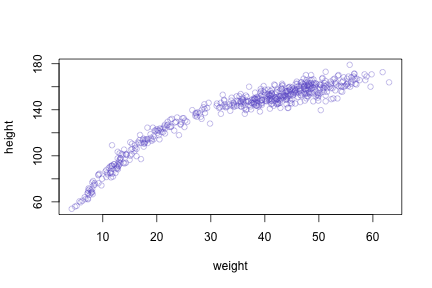
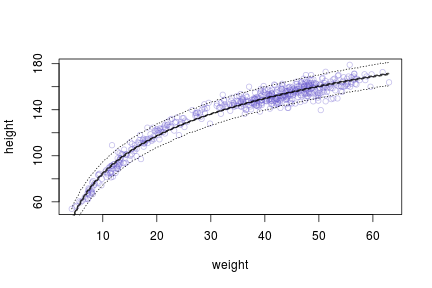
hw3 draft. TODO more elegant CI/plotting (ggplot?), standardize number of samples/replicates in HPDI calcs

diff --git a/hw3ashander.tex b/hw3ashander.tex
@@ -1,4 +1,4 @@
-%% LyX 2.1.0svn created this file.  For more info, see http://www.lyx.org/.
+%% lyx 2.1.0svn created this file.  For more info, see http://www.lyx.org/.
 %% Do not edit unless you really know what you are doing.
 \documentclass{article}
 \usepackage{graphicx, color}
@@ -454,32 +454,13 @@ Note that $h_i$ is column `height` and $w_i$ is column `weight` in the data fram
 \ttfamily\noindent
 \hlsymbol{mle.hw}{\ }\hlassignement{\usebox{\hlnormalsizeboxlessthan}-}{\ }\hlfunctioncall{mle2}\hlkeyword{(}\hlsymbol{height}{\ }\hlkeyword{\urltilda{}}{\ }\hlfunctioncall{dnorm}\hlkeyword{(}\hlargument{mean}{\ }\hlargument{=}{\ }\hlsymbol{alpha}{\ }\hlkeyword{+}{\ }\hlsymbol{beta}{\ }\hlkeyword{*}{\ }\hlsymbol{weight}\hlkeyword{,}\hspace*{\fill}\\
 \hlstd{}{\ }{\ }{\ }{\ }\hlargument{sd}{\ }\hlargument{=}{\ }\hlsymbol{sigma}\hlkeyword{)}\hlkeyword{,}{\ }\hlargument{data}{\ }\hlargument{=}{\ }\hlsymbol{d2}\hlkeyword{,}{\ }\hlargument{start}{\ }\hlargument{=}{\ }\hlfunctioncall{list}\hlkeyword{(}\hlargument{alpha}{\ }\hlargument{=}{\ }\hlfunctioncall{mean}\hlkeyword{(}\hlsymbol{d2}\hlkeyword{\usebox{\hlnormalsizeboxdollar}}\hlsymbol{height}\hlkeyword{)}\hlkeyword{,}{\ }\hlargument{beta}{\ }\hlargument{=}{\ }\hlnumber{0}\hlkeyword{,}\hspace*{\fill}\\
-\hlstd{}{\ }{\ }{\ }{\ }\hlargument{sigma}{\ }\hlargument{=}{\ }\hlfunctioncall{sd}\hlkeyword{(}\hlsymbol{d2}\hlkeyword{\usebox{\hlnormalsizeboxdollar}}\hlsymbol{height}\hlkeyword{)}\hlkeyword{)}\hlkeyword{)}\mbox{}
-\normalfont
-\end{flushleft}
-\begin{verbatim}
-## Warning message: NaNs produced
-\end{verbatim}
-\begin{verbatim}
-## Warning message: NaNs produced
-\end{verbatim}
-\begin{verbatim}
-## Warning message: NaNs produced
-\end{verbatim}
-\begin{verbatim}
-## Warning message: NaNs produced
-\end{verbatim}
-\begin{verbatim}
-## Warning message: NaNs produced
-\end{verbatim}
-\begin{flushleft}
-\ttfamily\noindent
-\hlsymbol{known.weights}{\ }\hlassignement{\usebox{\hlnormalsizeboxlessthan}-}{\ }\hlfunctioncall{c}\hlkeyword{(}\hlnumber{46.95}\hlkeyword{,}{\ }\hlnumber{43.72}\hlkeyword{,}{\ }\hlnumber{64.78}\hlkeyword{,}{\ }\hlnumber{32.59}\hlkeyword{,}{\ }\hlnumber{54.63}\hlkeyword{)}\hspace*{\fill}\\
+\hlstd{}{\ }{\ }{\ }{\ }\hlargument{sigma}{\ }\hlargument{=}{\ }\hlfunctioncall{sd}\hlkeyword{(}\hlsymbol{d2}\hlkeyword{\usebox{\hlnormalsizeboxdollar}}\hlsymbol{height}\hlkeyword{)}\hlkeyword{)}\hlkeyword{)}\hspace*{\fill}\\
+\hlstd{}\hlsymbol{known.weights}{\ }\hlassignement{\usebox{\hlnormalsizeboxlessthan}-}{\ }\hlfunctioncall{c}\hlkeyword{(}\hlnumber{46.95}\hlkeyword{,}{\ }\hlnumber{43.72}\hlkeyword{,}{\ }\hlnumber{64.78}\hlkeyword{,}{\ }\hlnumber{32.59}\hlkeyword{,}{\ }\hlnumber{54.63}\hlkeyword{)}\hspace*{\fill}\\
 \hlstd{}\hlsymbol{post.samples}{\ }\hlassignement{\usebox{\hlnormalsizeboxlessthan}-}{\ }\hlfunctioncall{as.data.frame}\hlkeyword{(}\hlfunctioncall{mvrnorm}\hlkeyword{(}\hlfunctioncall{length}\hlkeyword{(}\hlsymbol{d2}\hlkeyword{\usebox{\hlnormalsizeboxdollar}}\hlsymbol{height}\hlkeyword{)}\hlkeyword{,}\hspace*{\fill}\\
 \hlstd{}{\ }{\ }{\ }{\ }\hlargument{mu}{\ }\hlargument{=}{\ }\hlfunctioncall{coef}\hlkeyword{(}\hlsymbol{mle.hw}\hlkeyword{)}\hlkeyword{,}{\ }\hlargument{Sigma}{\ }\hlargument{=}{\ }\hlfunctioncall{vcov}\hlkeyword{(}\hlsymbol{mle.hw}\hlkeyword{)}\hlkeyword{)}\hlkeyword{)}\hspace*{\fill}\\
 \hlstd{}\hlsymbol{Pred.mean}{\ }\hlassignement{\usebox{\hlnormalsizeboxlessthan}-}{\ }\hlkeyword{function}\hlkeyword{(}\hlformalargs{x}\hlkeyword{)}{\ }\hlkeyword{\usebox{\hlnormalsizeboxopenbrace}}\hspace*{\fill}\\
-\hlstd{}{\ }{\ }{\ }{\ }\hlsymbol{ret}{\ }\hlassignement{\usebox{\hlnormalsizeboxlessthan}-}{\ }\hlfunctioncall{coef}\hlkeyword{(}\hlsymbol{mle.hw}\hlkeyword{)}\hlkeyword{[}\hlstring{"alpha"}\hlkeyword{]}{\ }\hlkeyword{+}{\ }\hlfunctioncall{coef}\hlkeyword{(}\hlsymbol{mle.hw}\hlkeyword{)}\hlkeyword{[}\hlstring{"beta"}\hlkeyword{]}{\ }\hlkeyword{*}{\ }\hlsymbol{x}\hspace*{\fill}\\
-\hlstd{}{\ }{\ }{\ }{\ }\hlfunctioncall{names}\hlkeyword{(}\hlsymbol{ret}\hlkeyword{)}{\ }\hlassignement{\usebox{\hlnormalsizeboxlessthan}-}{\ }\hlfunctioncall{c}\hlkeyword{(}\hlstring{""}\hlkeyword{)}\hspace*{\fill}\\
+\hlstd{}{\ }{\ }{\ }{\ }\hlsymbol{ret}{\ }\hlassignement{\usebox{\hlnormalsizeboxlessthan}-}{\ }\hlfunctioncall{coef}\hlkeyword{(}\hlsymbol{mle.hw}\hlkeyword{)}\hlkeyword{[}\hlstring{"{}alpha"{}}\hlkeyword{]}{\ }\hlkeyword{+}{\ }\hlfunctioncall{coef}\hlkeyword{(}\hlsymbol{mle.hw}\hlkeyword{)}\hlkeyword{[}\hlstring{"{}beta"{}}\hlkeyword{]}{\ }\hlkeyword{*}{\ }\hlsymbol{x}\hspace*{\fill}\\
+\hlstd{}{\ }{\ }{\ }{\ }\hlfunctioncall{names}\hlkeyword{(}\hlsymbol{ret}\hlkeyword{)}{\ }\hlassignement{\usebox{\hlnormalsizeboxlessthan}-}{\ }\hlfunctioncall{c}\hlkeyword{(}\hlstring{"{}"{}}\hlkeyword{)}\hspace*{\fill}\\
 \hlstd{}{\ }{\ }{\ }{\ }\hlsymbol{ret}\hspace*{\fill}\\
 \hlstd{}\hlkeyword{\usebox{\hlnormalsizeboxclosebrace}}\hspace*{\fill}\\
 \hlstd{}\hlsymbol{height.CI}{\ }\hlassignement{\usebox{\hlnormalsizeboxlessthan}-}{\ }\hlfunctioncall{sapply}\hlkeyword{(}\hlsymbol{known.weights}\hlkeyword{,}{\ }\hlkeyword{function}\hlkeyword{(}\hlformalargs{x}\hlkeyword{)}{\ }\hlkeyword{\usebox{\hlnormalsizeboxopenbrace}}\hspace*{\fill}\\
@@ -493,11 +474,11 @@ Note that $h_i$ is column `height` and $w_i$ is column `weight` in the data fram
 \end{flushleft}
 \begin{verbatim}
 ##  individual known.weights expected.height lower.90 upper.90
-##           1         46.95           156.4    155.7    156.9
+##           1         46.95           156.4    155.8    156.9
 ##           2         43.72           153.4    152.9    154.0
-##           3         64.78           172.5    170.7    174.2
-##           4         32.59           143.4    142.2    144.5
-##           5         54.63           163.3    162.5    164.4
+##           3         64.78           172.5    170.9    174.2
+##           4         32.59           143.4    142.3    144.5
+##           5         54.63           163.3    162.3    164.2
 \end{verbatim}
 \end{kframe}}
 \end{knitrout}
@@ -513,67 +494,15 @@ Note that $h_i$ is column `height` and $w_i$ is column `weight` in the data fram
 \hlsymbol{dY}{\ }\hlassignement{\usebox{\hlnormalsizeboxlessthan}-}{\ }\hlsymbol{Howell1}\hlkeyword{[}\hlsymbol{Howell1}\hlkeyword{\usebox{\hlnormalsizeboxdollar}}\hlsymbol{age}{\ }\hlkeyword{\usebox{\hlnormalsizeboxlessthan}}{\ }\hlnumber{18}\hlkeyword{,}{\ }\hlkeyword{]}\hspace*{\fill}\\
 \hlstd{}\hlsymbol{mle.hwY}{\ }\hlassignement{\usebox{\hlnormalsizeboxlessthan}-}{\ }\hlfunctioncall{mle2}\hlkeyword{(}\hlsymbol{height}{\ }\hlkeyword{\urltilda{}}{\ }\hlfunctioncall{dnorm}\hlkeyword{(}\hlargument{mean}{\ }\hlargument{=}{\ }\hlsymbol{alpha}{\ }\hlkeyword{+}{\ }\hlsymbol{beta}{\ }\hlkeyword{*}{\ }\hlsymbol{weight}\hlkeyword{,}\hspace*{\fill}\\
 \hlstd{}{\ }{\ }{\ }{\ }\hlargument{sd}{\ }\hlargument{=}{\ }\hlsymbol{sigma}\hlkeyword{)}\hlkeyword{,}{\ }\hlargument{data}{\ }\hlargument{=}{\ }\hlsymbol{dY}\hlkeyword{,}{\ }\hlargument{start}{\ }\hlargument{=}{\ }\hlfunctioncall{list}\hlkeyword{(}\hlargument{alpha}{\ }\hlargument{=}{\ }\hlfunctioncall{mean}\hlkeyword{(}\hlsymbol{d2}\hlkeyword{\usebox{\hlnormalsizeboxdollar}}\hlsymbol{height}\hlkeyword{)}\hlkeyword{,}{\ }\hlargument{beta}{\ }\hlargument{=}{\ }\hlnumber{0}\hlkeyword{,}\hspace*{\fill}\\
-\hlstd{}{\ }{\ }{\ }{\ }\hlargument{sigma}{\ }\hlargument{=}{\ }\hlfunctioncall{sd}\hlkeyword{(}\hlsymbol{d2}\hlkeyword{\usebox{\hlnormalsizeboxdollar}}\hlsymbol{height}\hlkeyword{)}\hlkeyword{)}\hlkeyword{)}\mbox{}
-\normalfont
-\end{flushleft}
-\begin{verbatim}
-## Warning message: NaNs produced
-\end{verbatim}
-\begin{verbatim}
-## Warning message: NaNs produced
-\end{verbatim}
-\begin{verbatim}
-## Warning message: NaNs produced
-\end{verbatim}
-\begin{verbatim}
-## Warning message: NaNs produced
-\end{verbatim}
-\begin{verbatim}
-## Warning message: NaNs produced
-\end{verbatim}
-\begin{verbatim}
-## Warning message: NaNs produced
-\end{verbatim}
-\begin{verbatim}
-## Warning message: NaNs produced
-\end{verbatim}
-\begin{verbatim}
-## Warning message: NaNs produced
-\end{verbatim}
-\begin{verbatim}
-## Warning message: NaNs produced
-\end{verbatim}
-\begin{verbatim}
-## Warning message: NaNs produced
-\end{verbatim}
-\begin{verbatim}
-## Warning message: NaNs produced
-\end{verbatim}
-\begin{verbatim}
-## Warning message: NaNs produced
-\end{verbatim}
-\begin{verbatim}
-## Warning message: NaNs produced
-\end{verbatim}
-\begin{verbatim}
-## Warning message: NaNs produced
-\end{verbatim}
-\begin{verbatim}
-## Warning message: NaNs produced
-\end{verbatim}
-\begin{verbatim}
-## Warning message: NaNs produced
-\end{verbatim}
-\begin{flushleft}
-\ttfamily\noindent
-\hlfunctioncall{precis}\hlkeyword{(}\hlsymbol{mle.hwY}\hlkeyword{)}\mbox{}
+\hlstd{}{\ }{\ }{\ }{\ }\hlargument{sigma}{\ }\hlargument{=}{\ }\hlfunctioncall{sd}\hlkeyword{(}\hlsymbol{d2}\hlkeyword{\usebox{\hlnormalsizeboxdollar}}\hlsymbol{height}\hlkeyword{)}\hlkeyword{)}\hlkeyword{)}\hspace*{\fill}\\
+\hlstd{}\hlfunctioncall{precis}\hlkeyword{(}\hlsymbol{mle.hwY}\hlkeyword{)}\mbox{}
 \normalfont
 \end{flushleft}
 \begin{verbatim}
 ##       Estimate Std. Error   2.5%  97.5%
-## alpha   58.231    1.39721 55.493 60.969
+## alpha   58.231    1.39721 55.492 60.969
 ## beta     2.720    0.06829  2.586  2.854
-## sigma    8.437    0.43056  7.593  9.281
+## sigma    8.437    0.43055  7.593  9.281
 \end{verbatim}
 \end{kframe}}
 \end{knitrout}
@@ -593,26 +522,36 @@ A simple interpretation of the coefficients implies:
 \definecolor{shadecolor}{rgb}{.97, .97, .97}{\color{fgcolor}\begin{kframe}
 \begin{flushleft}
 \ttfamily\noindent
-\hlcomment{\usebox{\hlnormalsizeboxhash}{\ }calculate{\ }CI{\ }for{\ }mean}\hspace*{\fill}\\
+\hlcomment{\usebox{\hlnormalsizeboxhash}sample{\ }posterior}\hspace*{\fill}\\
 \hlstd{}\hlsymbol{postY.samples}{\ }\hlassignement{\usebox{\hlnormalsizeboxlessthan}-}{\ }\hlfunctioncall{as.data.frame}\hlkeyword{(}\hlfunctioncall{mvrnorm}\hlkeyword{(}\hlfunctioncall{length}\hlkeyword{(}\hlsymbol{dY}\hlkeyword{\usebox{\hlnormalsizeboxdollar}}\hlsymbol{height}\hlkeyword{)}\hlkeyword{,}\hspace*{\fill}\\
 \hlstd{}{\ }{\ }{\ }{\ }\hlargument{mu}{\ }\hlargument{=}{\ }\hlfunctioncall{coef}\hlkeyword{(}\hlsymbol{mle.hwY}\hlkeyword{)}\hlkeyword{,}{\ }\hlargument{Sigma}{\ }\hlargument{=}{\ }\hlfunctioncall{vcov}\hlkeyword{(}\hlsymbol{mle.hwY}\hlkeyword{)}\hlkeyword{)}\hlkeyword{)}\hspace*{\fill}\\
+\hlstd{}\hspace*{\fill}\\
+\hlstd{}\hlcomment{\usebox{\hlnormalsizeboxhash}{\ }calculate{\ }CI{\ }for{\ }mean}\hspace*{\fill}\\
 \hlstd{}\hlsymbol{weight.range}{\ }\hlassignement{\usebox{\hlnormalsizeboxlessthan}-}{\ }\hlfunctioncall{seq}\hlkeyword{(}\hlfunctioncall{min}\hlkeyword{(}\hlsymbol{dY}\hlkeyword{\usebox{\hlnormalsizeboxdollar}}\hlsymbol{weight}\hlkeyword{)}\hlkeyword{,}{\ }\hlfunctioncall{max}\hlkeyword{(}\hlsymbol{dY}\hlkeyword{\usebox{\hlnormalsizeboxdollar}}\hlsymbol{weight}\hlkeyword{)}\hlkeyword{,}{\ }\hlnumber{0.2}\hlkeyword{)}\hspace*{\fill}\\
 \hlstd{}\hlsymbol{heightY.CI}{\ }\hlassignement{\usebox{\hlnormalsizeboxlessthan}-}{\ }\hlfunctioncall{sapply}\hlkeyword{(}\hlsymbol{weight.range}\hlkeyword{,}{\ }\hlkeyword{function}\hlkeyword{(}\hlformalargs{x}\hlkeyword{)}{\ }\hlkeyword{\usebox{\hlnormalsizeboxopenbrace}}\hspace*{\fill}\\
 \hlstd{}{\ }{\ }{\ }{\ }\hlfunctioncall{HPDI}\hlkeyword{(}\hlsymbol{postY.samples}\hlkeyword{\usebox{\hlnormalsizeboxdollar}}\hlsymbol{alpha}{\ }\hlkeyword{+}{\ }\hlsymbol{postY.samples}\hlkeyword{\usebox{\hlnormalsizeboxdollar}}\hlsymbol{beta}{\ }\hlkeyword{*}{\ }\hlsymbol{x}\hlkeyword{)}\hspace*{\fill}\\
 \hlstd{}\hlkeyword{\usebox{\hlnormalsizeboxclosebrace}}\hlkeyword{)}\hspace*{\fill}\\
+\hlstd{}\hlcomment{\usebox{\hlnormalsizeboxhash}{\ }calculate{\ }PI{\ }for{\ }mean}\hspace*{\fill}\\
 \hlstd{}\hlsymbol{heightY.PI}{\ }\hlassignement{\usebox{\hlnormalsizeboxlessthan}-}{\ }\hlfunctioncall{sapply}\hlkeyword{(}\hlsymbol{weight.range}\hlkeyword{,}{\ }\hlkeyword{function}\hlkeyword{(}\hlformalargs{x}\hlkeyword{)}{\ }\hlkeyword{\usebox{\hlnormalsizeboxopenbrace}}\hspace*{\fill}\\
 \hlstd{}{\ }{\ }{\ }{\ }\hlfunctioncall{HPDI}\hlkeyword{(}\hlfunctioncall{rnorm}\hlkeyword{(}\hlnumber{10000}\hlkeyword{,}{\ }\hlargument{mean}{\ }\hlargument{=}{\ }\hlkeyword{(}\hlsymbol{postY.samples}\hlkeyword{\usebox{\hlnormalsizeboxdollar}}\hlsymbol{alpha}{\ }\hlkeyword{+}{\ }\hlsymbol{postY.samples}\hlkeyword{\usebox{\hlnormalsizeboxdollar}}\hlsymbol{beta}{\ }\hlkeyword{*}\hspace*{\fill}\\
 \hlstd{}{\ }{\ }{\ }{\ }{\ }{\ }{\ }{\ }\hlsymbol{x}\hlkeyword{)}\hlkeyword{,}{\ }\hlargument{sd}{\ }\hlargument{=}{\ }\hlsymbol{postY.samples}\hlkeyword{\usebox{\hlnormalsizeboxdollar}}\hlsymbol{sigma}\hlkeyword{)}\hlkeyword{)}\hspace*{\fill}\\
 \hlstd{}\hlkeyword{\usebox{\hlnormalsizeboxclosebrace}}\hlkeyword{)}\hspace*{\fill}\\
-\hlstd{}\hlfunctioncall{plot}\hlkeyword{(}\hlsymbol{height}{\ }\hlkeyword{\urltilda{}}{\ }\hlsymbol{weight}\hlkeyword{,}{\ }\hlargument{data}{\ }\hlargument{=}{\ }\hlsymbol{dY}\hlkeyword{)}\hspace*{\fill}\\
-\hlstd{}\hlfunctioncall{abline}\hlkeyword{(}\hlargument{a}{\ }\hlargument{=}{\ }\hlfunctioncall{coef}\hlkeyword{(}\hlsymbol{mle.hwY}\hlkeyword{)}\hlkeyword{[}\hlstring{"alpha"}\hlkeyword{]}\hlkeyword{,}{\ }\hlargument{b}{\ }\hlargument{=}{\ }\hlfunctioncall{coef}\hlkeyword{(}\hlsymbol{mle.hwY}\hlkeyword{)}\hlkeyword{[}\hlstring{"beta"}\hlkeyword{]}\hlkeyword{)}\hspace*{\fill}\\
-\hlstd{}\hlfunctioncall{lines}\hlkeyword{(}\hlsymbol{heightY.CI}\hlkeyword{[}\hlstring{"lower"}\hlkeyword{,}{\ }\hlkeyword{]}{\ }\hlkeyword{\urltilda{}}{\ }\hlsymbol{weight.range}\hlkeyword{,}{\ }\hlargument{lty}{\ }\hlargument{=}{\ }\hlnumber{2}\hlkeyword{)}\hspace*{\fill}\\
-\hlstd{}\hlfunctioncall{lines}\hlkeyword{(}\hlsymbol{heightY.CI}\hlkeyword{[}\hlstring{"upper"}\hlkeyword{,}{\ }\hlkeyword{]}{\ }\hlkeyword{\urltilda{}}{\ }\hlsymbol{weight.range}\hlkeyword{,}{\ }\hlargument{lty}{\ }\hlargument{=}{\ }\hlnumber{2}\hlkeyword{)}\hspace*{\fill}\\
-\hlstd{}\hlfunctioncall{lines}\hlkeyword{(}\hlsymbol{heightY.PI}\hlkeyword{[}\hlstring{"upper"}\hlkeyword{,}{\ }\hlkeyword{]}{\ }\hlkeyword{\urltilda{}}{\ }\hlsymbol{weight.range}\hlkeyword{,}{\ }\hlargument{lty}{\ }\hlargument{=}{\ }\hlnumber{3}\hlkeyword{)}\hspace*{\fill}\\
-\hlstd{}\hlfunctioncall{lines}\hlkeyword{(}\hlsymbol{heightY.PI}\hlkeyword{[}\hlstring{"lower"}\hlkeyword{,}{\ }\hlkeyword{]}{\ }\hlkeyword{\urltilda{}}{\ }\hlsymbol{weight.range}\hlkeyword{,}{\ }\hlargument{lty}{\ }\hlargument{=}{\ }\hlnumber{3}\hlkeyword{)}\mbox{}
+\hlstd{}\hspace*{\fill}\\
+\hlstd{}\hlcomment{\usebox{\hlnormalsizeboxhash}{\ }plot{\ }TODO:{\ }clean{\ }this{\ }up,{\ }maybe{\ }rewrite{\ }as{\ }ggplot}\hspace*{\fill}\\
+\hlstd{}\hlfunctioncall{plot}\hlkeyword{(}\hlsymbol{height}{\ }\hlkeyword{\urltilda{}}{\ }\hlsymbol{weight}\hlkeyword{,}{\ }\hlargument{data}{\ }\hlargument{=}{\ }\hlsymbol{dY}\hlkeyword{,}{\ }\hlargument{col}{\ }\hlargument{=}{\ }\hlfunctioncall{col.alpha}\hlkeyword{(}\hlstring{"{}slateblue"{}}\hlkeyword{,}\hspace*{\fill}\\
+\hlstd{}{\ }{\ }{\ }{\ }\hlnumber{0.4}\hlkeyword{)}\hlkeyword{)}\hspace*{\fill}\\
+\hlstd{}\hlfunctioncall{abline}\hlkeyword{(}\hlargument{a}{\ }\hlargument{=}{\ }\hlfunctioncall{coef}\hlkeyword{(}\hlsymbol{mle.hwY}\hlkeyword{)}\hlkeyword{[}\hlstring{"{}alpha"{}}\hlkeyword{]}\hlkeyword{,}{\ }\hlargument{b}{\ }\hlargument{=}{\ }\hlfunctioncall{coef}\hlkeyword{(}\hlsymbol{mle.hwY}\hlkeyword{)}\hlkeyword{[}\hlstring{"{}beta"{}}\hlkeyword{]}\hlkeyword{)}\hspace*{\fill}\\
+\hlstd{}\hlfunctioncall{lines}\hlkeyword{(}\hlsymbol{heightY.CI}\hlkeyword{[}\hlstring{"{}lower"{}}\hlkeyword{,}{\ }\hlkeyword{]}{\ }\hlkeyword{\urltilda{}}{\ }\hlsymbol{weight.range}\hlkeyword{,}{\ }\hlargument{lty}{\ }\hlargument{=}{\ }\hlnumber{2}\hlkeyword{)}\hspace*{\fill}\\
+\hlstd{}\hlfunctioncall{lines}\hlkeyword{(}\hlsymbol{heightY.CI}\hlkeyword{[}\hlstring{"{}upper"{}}\hlkeyword{,}{\ }\hlkeyword{]}{\ }\hlkeyword{\urltilda{}}{\ }\hlsymbol{weight.range}\hlkeyword{,}{\ }\hlargument{lty}{\ }\hlargument{=}{\ }\hlnumber{2}\hlkeyword{)}\hspace*{\fill}\\
+\hlstd{}\hlfunctioncall{lines}\hlkeyword{(}\hlsymbol{heightY.PI}\hlkeyword{[}\hlstring{"{}upper"{}}\hlkeyword{,}{\ }\hlkeyword{]}{\ }\hlkeyword{\urltilda{}}{\ }\hlsymbol{weight.range}\hlkeyword{,}{\ }\hlargument{lty}{\ }\hlargument{=}{\ }\hlnumber{3}\hlkeyword{)}\hspace*{\fill}\\
+\hlstd{}\hlfunctioncall{lines}\hlkeyword{(}\hlsymbol{heightY.PI}\hlkeyword{[}\hlstring{"{}lower"{}}\hlkeyword{,}{\ }\hlkeyword{]}{\ }\hlkeyword{\urltilda{}}{\ }\hlsymbol{weight.range}\hlkeyword{,}{\ }\hlargument{lty}{\ }\hlargument{=}{\ }\hlnumber{3}\hlkeyword{)}\mbox{}
 \normalfont
 \end{flushleft}
-\includegraphics{pi-youth} \end{kframe}}
+
+
+\centering{}\includegraphics{pi-youth} 
+
+\end{kframe}}
 \end{knitrout}
 
 
@@ -632,28 +571,84 @@ One could also transform the data\dots
 
 \subsection*{Problem 3}
 
-Suppose a colleague of yours, who works on allometry, glances at the homework problems just above. Your colleague exclaims, “That’s silly. Everyone knows that it’s only the logarithm of body weight that scales with height!”
+For the Howell dataset (n=544 individuals) we  model the relationship between height (cm) and the natural logarithm of weight (log-kg). 
+\[\begin{split}h_i \sim Normal(\mu_i, \sigma)\\ \mu_i =\alpha+\beta \log(w_i),\end{split}\]
+where $h_i$ is the height (in cm), and $w_i$ the weight (in kg), of individual i. 
+n
+We use the entire Howell1 data frame, all 544 rows, adults and non-adults. 
 
-(a) I want you to model the relationship between height (cm) and the natural logarithm of weight (log-kg). Use the entire Howell1 data frame, all 544 rows, adults and non-adults. Fit this model, using qua- dratic approximation:
-\[h_i \sim Normal(\mu_i, \sigma), \mu_i =\alpha+\beta \log(w_i),\]
+\subsubsection{(a)}
 
-where hi is the height of individual i and wi is the weight (in kg) of individual i. The function for computing a natural log in R is just log.
+First, we fit model, using a quadratic approximation of the likelihood
 
-(b) Begin with this plot:
 \begin{knitrout}
 \definecolor{shadecolor}{rgb}{.97, .97, .97}{\color{fgcolor}\begin{kframe}
 \begin{flushleft}
 \ttfamily\noindent
-\hlfunctioncall{plot}\hlkeyword{(}\hlsymbol{height}{\ }\hlkeyword{\urltilda{}}{\ }\hlsymbol{weight}\hlkeyword{,}{\ }\hlargument{data}{\ }\hlargument{=}{\ }\hlsymbol{Howell1}\hlkeyword{,}{\ }\hlargument{col}{\ }\hlargument{=}{\ }\hlfunctioncall{col.alpha}\hlkeyword{(}\hlstring{"slateblue"}\hlkeyword{,}\hspace*{\fill}\\
-\hlstd{}{\ }{\ }{\ }{\ }\hlnumber{0.4}\hlkeyword{)}\hlkeyword{)}\mbox{}
+\hlsymbol{pd.f}{\ }\hlassignement{\usebox{\hlnormalsizeboxlessthan}-}{\ }\hlsymbol{Howell1}\hspace*{\fill}\\
+\hlstd{}\hlsymbol{mle.loghw}{\ }\hlassignement{\usebox{\hlnormalsizeboxlessthan}-}{\ }\hlfunctioncall{mle2}\hlkeyword{(}\hlsymbol{height}{\ }\hlkeyword{\urltilda{}}{\ }\hlfunctioncall{dnorm}\hlkeyword{(}\hlargument{mean}{\ }\hlargument{=}{\ }\hlsymbol{alpha}{\ }\hlkeyword{+}{\ }\hlsymbol{beta}{\ }\hlkeyword{*}{\ }\hlfunctioncall{log}\hlkeyword{(}\hlsymbol{weight}\hlkeyword{)}\hlkeyword{,}\hspace*{\fill}\\
+\hlstd{}{\ }{\ }{\ }{\ }\hlargument{sd}{\ }\hlargument{=}{\ }\hlsymbol{sigma}\hlkeyword{)}\hlkeyword{,}{\ }\hlargument{data}{\ }\hlargument{=}{\ }\hlsymbol{d.f}\hlkeyword{,}{\ }\hlargument{start}{\ }\hlargument{=}{\ }\hlfunctioncall{list}\hlkeyword{(}\hlargument{alpha}{\ }\hlargument{=}{\ }\hlfunctioncall{mean}\hlkeyword{(}\hlsymbol{d.f}\hlkeyword{\usebox{\hlnormalsizeboxdollar}}\hlsymbol{weight}\hlkeyword{)}\hlkeyword{,}\hspace*{\fill}\\
+\hlstd{}{\ }{\ }{\ }{\ }\hlargument{beta}{\ }\hlargument{=}{\ }\hlnumber{0}\hlkeyword{,}{\ }\hlargument{sigma}{\ }\hlargument{=}{\ }\hlfunctioncall{sd}\hlkeyword{(}\hlsymbol{d.f}\hlkeyword{\usebox{\hlnormalsizeboxdollar}}\hlsymbol{height}\hlkeyword{)}\hlkeyword{)}\hlkeyword{)}\hspace*{\fill}\\
+\hlstd{}\hlfunctioncall{precis}\hlkeyword{(}\hlsymbol{mle.loghw}\hlkeyword{)}\mbox{}
 \normalfont
 \end{flushleft}
-\includegraphics{all-data} \end{kframe}}
+\begin{verbatim}
+##       Estimate Std. Error   2.5%  97.5%
+## alpha  -23.823     1.3352 -26.44 -21.21
+## beta    47.086     0.3826  46.34  47.84
+## sigma    5.135     0.1557   4.83   5.44
+\end{verbatim}
+\end{kframe}}
 \end{knitrout}
 
 
+\subsubsection{(b)}
 
-Then use samples from the naive posterior of the model in (a) to su- perimpose on the plot (1) the predicted mean height as a function of weight, (2) the 95\% HPDI for the mean, and (3) the 95\% HPDI for predicted heights. The trick here lies in appreciating that the model was fit using log(weight) but that you must plot the predictions using raw weight as the horizontal axis. Remember that the opposite of log is exp.
+\begin{knitrout}
+\definecolor{shadecolor}{rgb}{.97, .97, .97}{\color{fgcolor}\begin{kframe}
+\begin{flushleft}
+\ttfamily\noindent
+\hlcomment{\usebox{\hlnormalsizeboxhash}sample{\ }posterior}\hspace*{\fill}\\
+\hlstd{}\hlsymbol{post.full.samples}{\ }\hlassignement{\usebox{\hlnormalsizeboxlessthan}-}{\ }\hlfunctioncall{as.data.frame}\hlkeyword{(}\hlfunctioncall{mvrnorm}\hlkeyword{(}\hlfunctioncall{length}\hlkeyword{(}\hlsymbol{d.f}\hlkeyword{\usebox{\hlnormalsizeboxdollar}}\hlsymbol{height}\hlkeyword{)}\hlkeyword{,}\hspace*{\fill}\\
+\hlstd{}{\ }{\ }{\ }{\ }\hlargument{mu}{\ }\hlargument{=}{\ }\hlfunctioncall{coef}\hlkeyword{(}\hlsymbol{mle.loghw}\hlkeyword{)}\hlkeyword{,}{\ }\hlargument{Sigma}{\ }\hlargument{=}{\ }\hlfunctioncall{vcov}\hlkeyword{(}\hlsymbol{mle.loghw}\hlkeyword{)}\hlkeyword{)}\hlkeyword{)}\hspace*{\fill}\\
+\hlstd{}\hspace*{\fill}\\
+\hlstd{}\hlcomment{\usebox{\hlnormalsizeboxhash}{\ }calculate{\ }CI{\ }for{\ }mean}\hspace*{\fill}\\
+\hlstd{}\hlsymbol{weight.range}{\ }\hlassignement{\usebox{\hlnormalsizeboxlessthan}-}{\ }\hlfunctioncall{seq}\hlkeyword{(}\hlfunctioncall{min}\hlkeyword{(}\hlsymbol{d.f}\hlkeyword{\usebox{\hlnormalsizeboxdollar}}\hlsymbol{weight}\hlkeyword{)}\hlkeyword{,}{\ }\hlfunctioncall{max}\hlkeyword{(}\hlsymbol{d.f}\hlkeyword{\usebox{\hlnormalsizeboxdollar}}\hlsymbol{weight}\hlkeyword{)}\hlkeyword{,}{\ }\hlnumber{0.2}\hlkeyword{)}\hspace*{\fill}\\
+\hlstd{}\hlsymbol{heightf.CI}{\ }\hlassignement{\usebox{\hlnormalsizeboxlessthan}-}{\ }\hlfunctioncall{sapply}\hlkeyword{(}\hlsymbol{weight.range}\hlkeyword{,}{\ }\hlkeyword{function}\hlkeyword{(}\hlformalargs{x}\hlkeyword{)}{\ }\hlkeyword{\usebox{\hlnormalsizeboxopenbrace}}\hspace*{\fill}\\
+\hlstd{}{\ }{\ }{\ }{\ }\hlfunctioncall{HPDI}\hlkeyword{(}\hlsymbol{post.full.samples}\hlkeyword{\usebox{\hlnormalsizeboxdollar}}\hlsymbol{alpha}{\ }\hlkeyword{+}{\ }\hlsymbol{post.full.samples}\hlkeyword{\usebox{\hlnormalsizeboxdollar}}\hlsymbol{beta}{\ }\hlkeyword{*}{\ }\hlfunctioncall{log}\hlkeyword{(}\hlsymbol{x}\hlkeyword{)}\hlkeyword{,}\hspace*{\fill}\\
+\hlstd{}{\ }{\ }{\ }{\ }{\ }{\ }{\ }{\ }\hlnumber{0.95}\hlkeyword{)}\hspace*{\fill}\\
+\hlstd{}\hlkeyword{\usebox{\hlnormalsizeboxclosebrace}}\hlkeyword{)}\hspace*{\fill}\\
+\hlstd{}\hlcomment{\usebox{\hlnormalsizeboxhash}{\ }calculate{\ }PI{\ }for{\ }mean}\hspace*{\fill}\\
+\hlstd{}\hlsymbol{heightf.PI}{\ }\hlassignement{\usebox{\hlnormalsizeboxlessthan}-}{\ }\hlfunctioncall{sapply}\hlkeyword{(}\hlsymbol{weight.range}\hlkeyword{,}{\ }\hlkeyword{function}\hlkeyword{(}\hlformalargs{x}\hlkeyword{)}{\ }\hlkeyword{\usebox{\hlnormalsizeboxopenbrace}}\hspace*{\fill}\\
+\hlstd{}{\ }{\ }{\ }{\ }\hlfunctioncall{HPDI}\hlkeyword{(}\hlfunctioncall{rnorm}\hlkeyword{(}\hlnumber{10000}\hlkeyword{,}{\ }\hlargument{mean}{\ }\hlargument{=}{\ }\hlkeyword{(}\hlsymbol{post.full.samples}\hlkeyword{\usebox{\hlnormalsizeboxdollar}}\hlsymbol{alpha}{\ }\hlkeyword{+}{\ }\hlsymbol{post.full.samples}\hlkeyword{\usebox{\hlnormalsizeboxdollar}}\hlsymbol{beta}{\ }\hlkeyword{*}\hspace*{\fill}\\
+\hlstd{}{\ }{\ }{\ }{\ }{\ }{\ }{\ }{\ }\hlfunctioncall{log}\hlkeyword{(}\hlsymbol{x}\hlkeyword{)}\hlkeyword{)}\hlkeyword{,}{\ }\hlargument{sd}{\ }\hlargument{=}{\ }\hlsymbol{post.full.samples}\hlkeyword{\usebox{\hlnormalsizeboxdollar}}\hlsymbol{sigma}\hlkeyword{)}\hlkeyword{,}{\ }\hlnumber{0.95}\hlkeyword{)}\hspace*{\fill}\\
+\hlstd{}\hlkeyword{\usebox{\hlnormalsizeboxclosebrace}}\hlkeyword{)}\hspace*{\fill}\\
+\hlstd{}\hspace*{\fill}\\
+\hlstd{}\hlcomment{\usebox{\hlnormalsizeboxhash}{\ }plot{\ }TODO:{\ }clean{\ }this{\ }up,{\ }maybe{\ }rewrite{\ }as{\ }ggplot}\hspace*{\fill}\\
+\hlstd{}\hlfunctioncall{plot}\hlkeyword{(}\hlsymbol{height}{\ }\hlkeyword{\urltilda{}}{\ }\hlsymbol{weight}\hlkeyword{,}{\ }\hlargument{data}{\ }\hlargument{=}{\ }\hlsymbol{Howell1}\hlkeyword{,}{\ }\hlargument{col}{\ }\hlargument{=}{\ }\hlfunctioncall{col.alpha}\hlkeyword{(}\hlstring{"{}slateblue"{}}\hlkeyword{,}\hspace*{\fill}\\
+\hlstd{}{\ }{\ }{\ }{\ }\hlnumber{0.4}\hlkeyword{)}\hlkeyword{)}\hspace*{\fill}\\
+\hlstd{}\hlsymbol{Pred.fn}{\ }\hlassignement{\usebox{\hlnormalsizeboxlessthan}-}{\ }\hlkeyword{function}\hlkeyword{(}\hlformalargs{x}\hlkeyword{)}{\ }\hlkeyword{\usebox{\hlnormalsizeboxopenbrace}}\hspace*{\fill}\\
+\hlstd{}{\ }{\ }{\ }{\ }\hlfunctioncall{coef}\hlkeyword{(}\hlsymbol{mle.loghw}\hlkeyword{)}\hlkeyword{[}\hlstring{"{}alpha"{}}\hlkeyword{]}{\ }\hlkeyword{+}{\ }\hlfunctioncall{log}\hlkeyword{(}\hlsymbol{x}\hlkeyword{)}{\ }\hlkeyword{*}{\ }\hlfunctioncall{coef}\hlkeyword{(}\hlsymbol{mle.loghw}\hlkeyword{)}\hlkeyword{[}\hlstring{"{}beta"{}}\hlkeyword{]}\hspace*{\fill}\\
+\hlstd{}\hlkeyword{\usebox{\hlnormalsizeboxclosebrace}}\hspace*{\fill}\\
+\hlstd{}\hlfunctioncall{curve}\hlkeyword{(}\hlsymbol{Pred.fn}\hlkeyword{,}{\ }\hlargument{from}{\ }\hlargument{=}{\ }\hlfunctioncall{min}\hlkeyword{(}\hlsymbol{d.f}\hlkeyword{\usebox{\hlnormalsizeboxdollar}}\hlsymbol{weight}\hlkeyword{)}\hlkeyword{,}{\ }\hlargument{to}{\ }\hlargument{=}{\ }\hlfunctioncall{max}\hlkeyword{(}\hlsymbol{d.f}\hlkeyword{\usebox{\hlnormalsizeboxdollar}}\hlsymbol{weight}\hlkeyword{)}\hlkeyword{,}\hspace*{\fill}\\
+\hlstd{}{\ }{\ }{\ }{\ }\hlargument{add}{\ }\hlargument{=}{\ }\hlsymbol{T}\hlkeyword{)}\hspace*{\fill}\\
+\hlstd{}\hlfunctioncall{lines}\hlkeyword{(}\hlsymbol{heightf.CI}\hlkeyword{[}\hlstring{"{}lower"{}}\hlkeyword{,}{\ }\hlkeyword{]}{\ }\hlkeyword{\urltilda{}}{\ }\hlsymbol{weight.range}\hlkeyword{,}{\ }\hlargument{lty}{\ }\hlargument{=}{\ }\hlnumber{2}\hlkeyword{)}\hspace*{\fill}\\
+\hlstd{}\hlfunctioncall{lines}\hlkeyword{(}\hlsymbol{heightf.CI}\hlkeyword{[}\hlstring{"{}upper"{}}\hlkeyword{,}{\ }\hlkeyword{]}{\ }\hlkeyword{\urltilda{}}{\ }\hlsymbol{weight.range}\hlkeyword{,}{\ }\hlargument{lty}{\ }\hlargument{=}{\ }\hlnumber{2}\hlkeyword{)}\hspace*{\fill}\\
+\hlstd{}\hlfunctioncall{lines}\hlkeyword{(}\hlsymbol{heightf.PI}\hlkeyword{[}\hlstring{"{}upper"{}}\hlkeyword{,}{\ }\hlkeyword{]}{\ }\hlkeyword{\urltilda{}}{\ }\hlsymbol{weight.range}\hlkeyword{,}{\ }\hlargument{lty}{\ }\hlargument{=}{\ }\hlnumber{3}\hlkeyword{)}\hspace*{\fill}\\
+\hlstd{}\hlfunctioncall{lines}\hlkeyword{(}\hlsymbol{heightf.PI}\hlkeyword{[}\hlstring{"{}lower"{}}\hlkeyword{,}{\ }\hlkeyword{]}{\ }\hlkeyword{\urltilda{}}{\ }\hlsymbol{weight.range}\hlkeyword{,}{\ }\hlargument{lty}{\ }\hlargument{=}{\ }\hlnumber{3}\hlkeyword{)}\mbox{}
+\normalfont
+\end{flushleft}
+
+
+\centering{}\includegraphics{all-data} 
+
+\end{kframe}}
+\end{knitrout}
+
+
+Then use samples from the naive posterior of the model in (a) to superimpose on the plot (1) the predicted mean height as a function of weight, (2) the 95\% HPDI for the mean, and (3) the 95\% HPDI for predicted heights. 
+The trick here lies in appreciating that the model was fit using log(weight) but that you must plot the predictions using raw weight as the horizontal axis. 
+Remember that the opposite of log is exp.
 
 \subsection*{Colophon}
 
@@ -662,7 +657,7 @@ Then use samples from the naive posterior of the model in (a) to su- perimpose o
 \begin{flushleft}
 \ttfamily\noindent
 \hlfunctioncall{require}\hlkeyword{(}\hlsymbol{knitr}\hlkeyword{)}{\ }{\ }\hlcomment{\usebox{\hlnormalsizeboxhash}\usebox{\hlnormalsizeboxhash}\usebox{\hlnormalsizeboxhash}{\ }the{\ }package}\hspace*{\fill}\\
-\hlstd{}\hlfunctioncall{knit}\hlkeyword{(}\hlstring{"/Users/jaime/PHD/stat-rethink/hw3ashander.Rnw"}\hlkeyword{)}{\ }{\ }\hlcomment{\usebox{\hlnormalsizeboxhash}\usebox{\hlnormalsizeboxhash}{\ }to{\ }run}\mbox{}
+\hlstd{}\hlfunctioncall{knit}\hlkeyword{(}\hlfunctioncall{paste}\hlkeyword{(}\hlfunctioncall{getwd}\hlkeyword{(}\hlkeyword{)}\hlkeyword{,}{\ }\hlstring{"{}hw3ashander.Rnw"{}}\hlkeyword{,}{\ }\hlargument{sep}{\ }\hlargument{=}{\ }\hlstring{"{}/"{}}\hlkeyword{)}\hlkeyword{)}{\ }{\ }\hlcomment{\usebox{\hlnormalsizeboxhash}\usebox{\hlnormalsizeboxhash}{\ }to{\ }run}\mbox{}
 \normalfont
 \end{flushleft}
 \end{kframe}}
